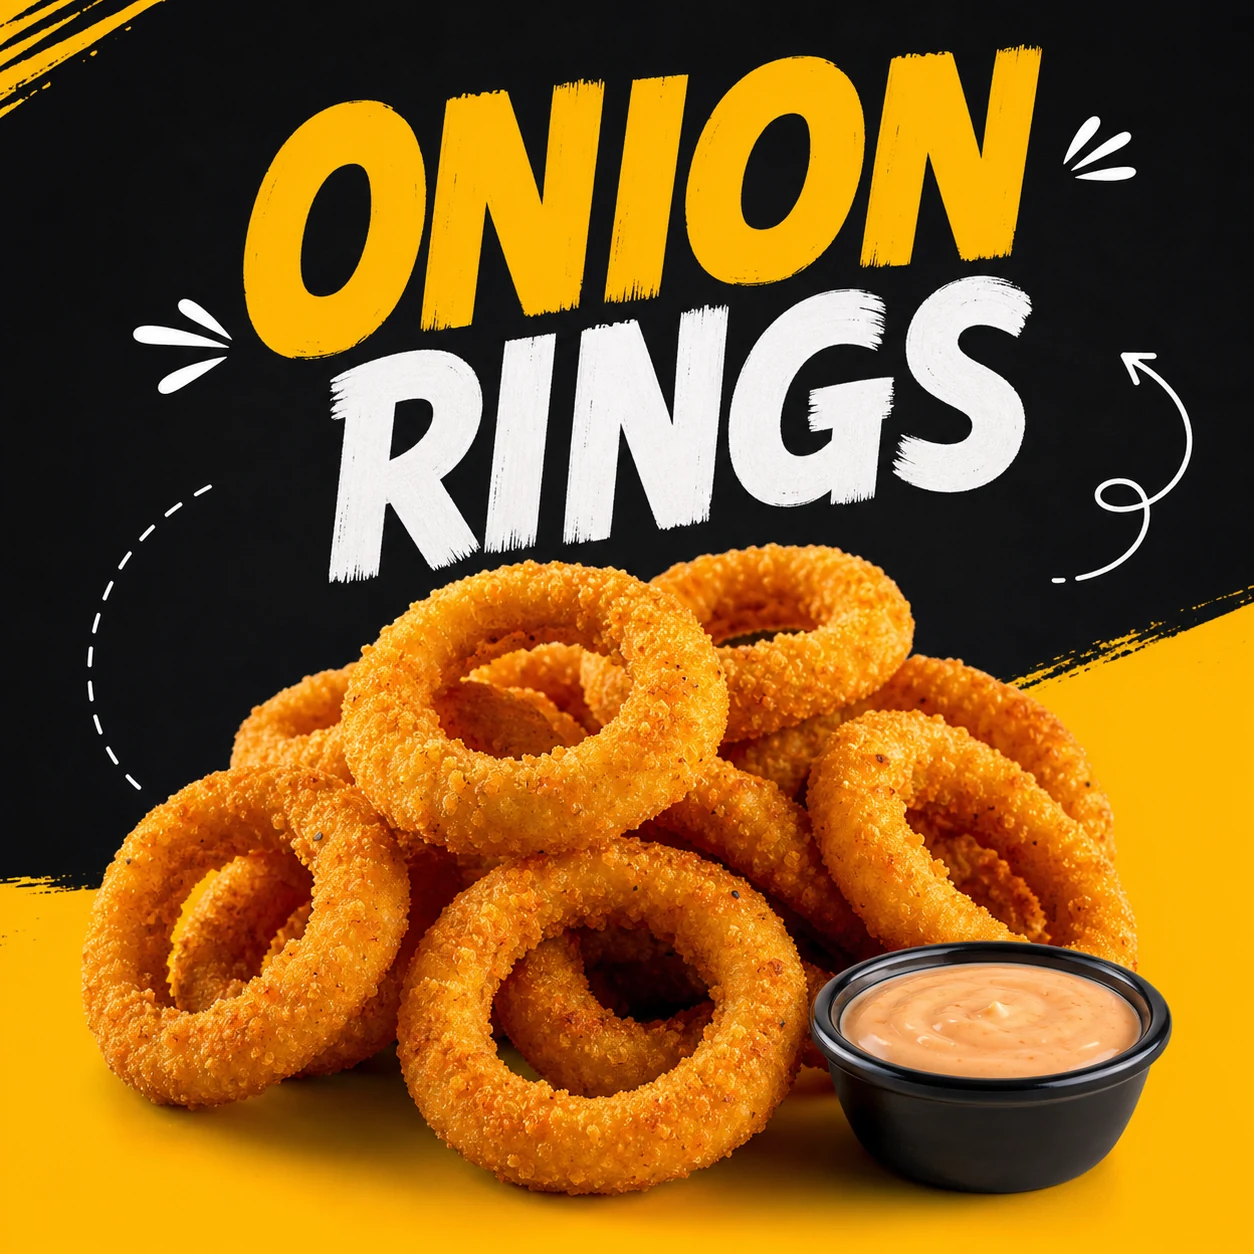
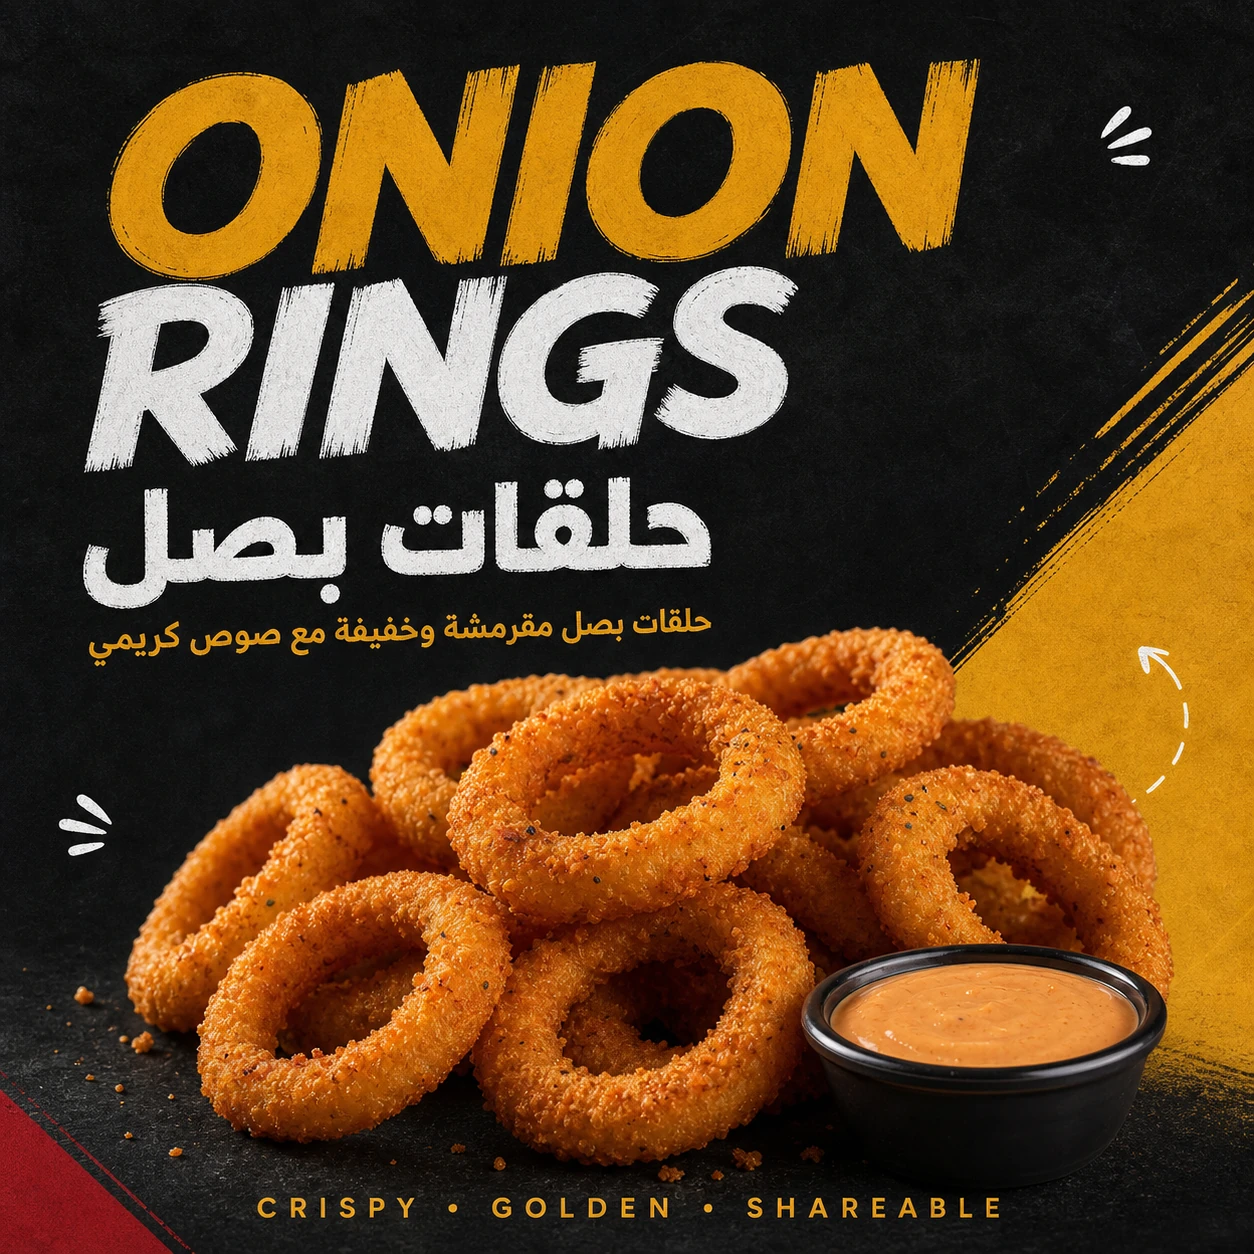
Update Crazy Cart menu artwork
Publish the approved Crazy Hot Dog, Onion Rings, and Volcano Burger artwork and refresh cached menu scripts.

diff --git a/index.html b/index.html
@@ -13,8 +13,8 @@
   <link rel="preconnect" href="https://fonts.gstatic.com" crossorigin>
   <link href="https://fonts.googleapis.com/css2?family=Alexandria:wght@400;500;600;700;800;900&display=swap" rel="stylesheet">
   <link rel="stylesheet" href="css/style.css">
-  <script src="js/content.js" defer></script>
-  <script src="js/script.js?v=3" defer></script>
+  <script src="js/content.js?v=4" defer></script>
+  <script src="js/script.js?v=4" defer></script>
 </head>
 <body>
   <a class="skip-link" href="#main">انتقل إلى المحتوى</a>
